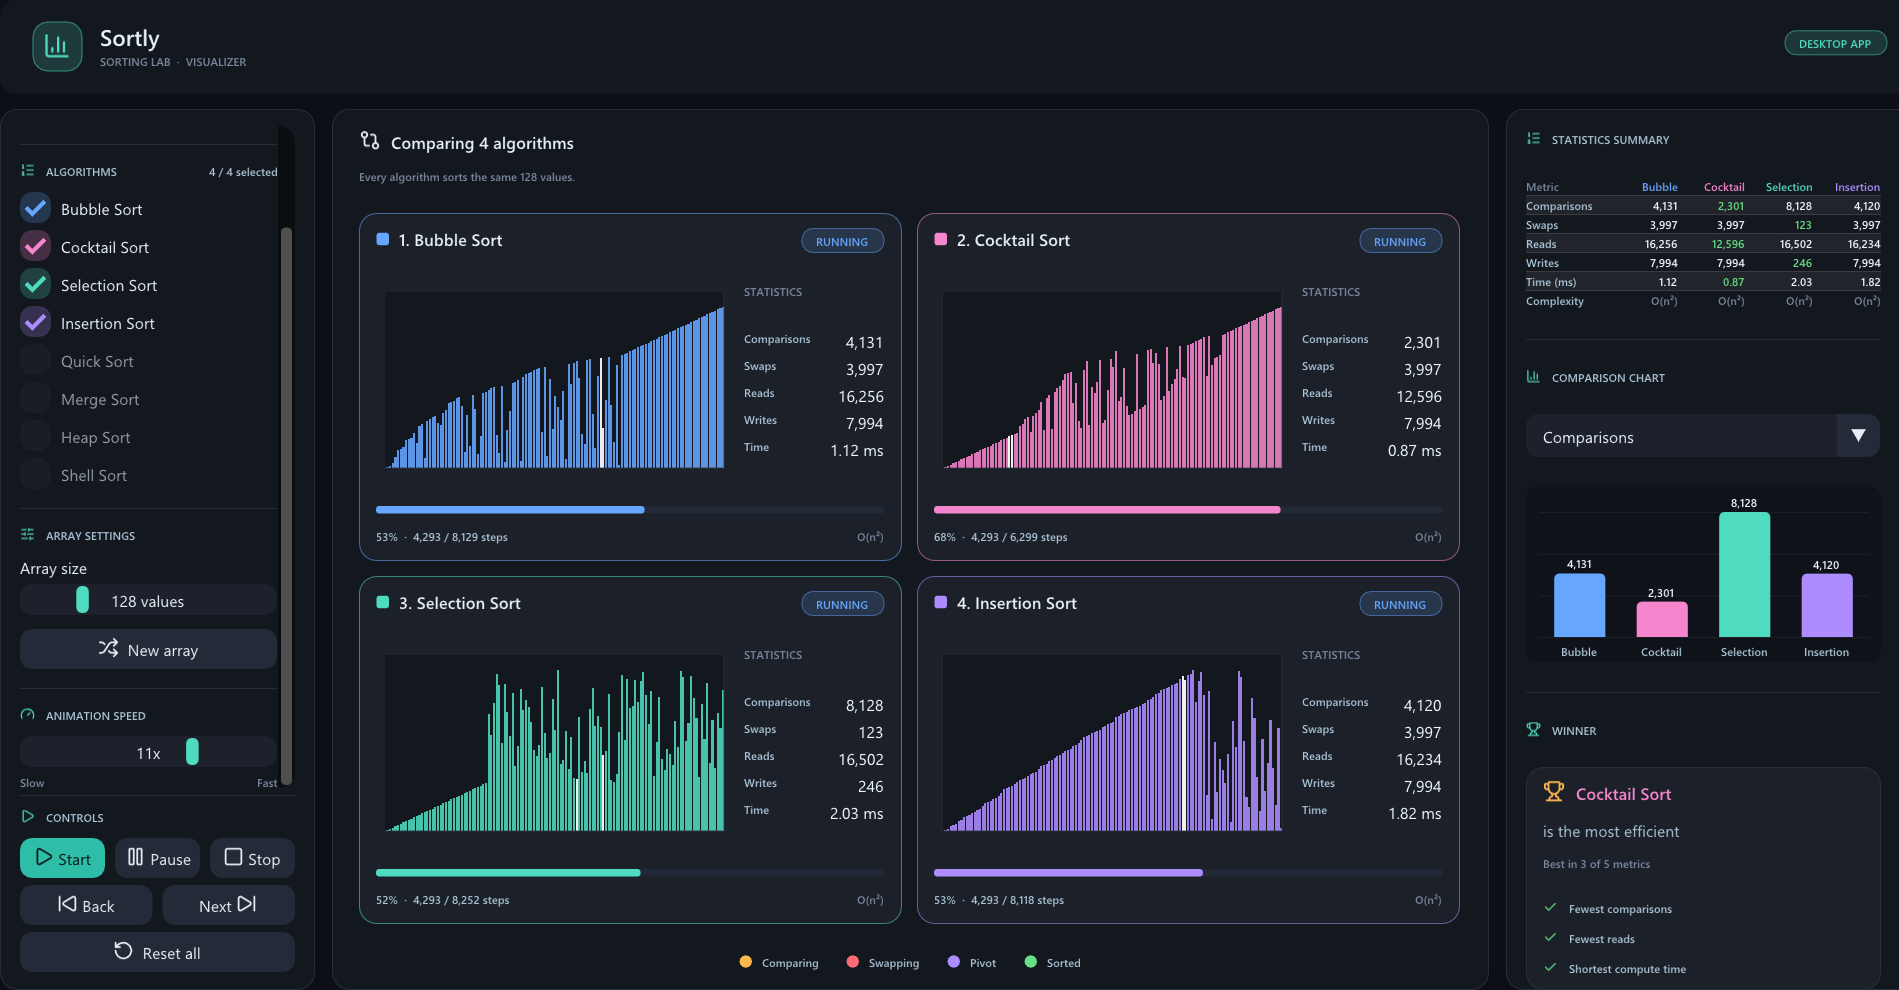
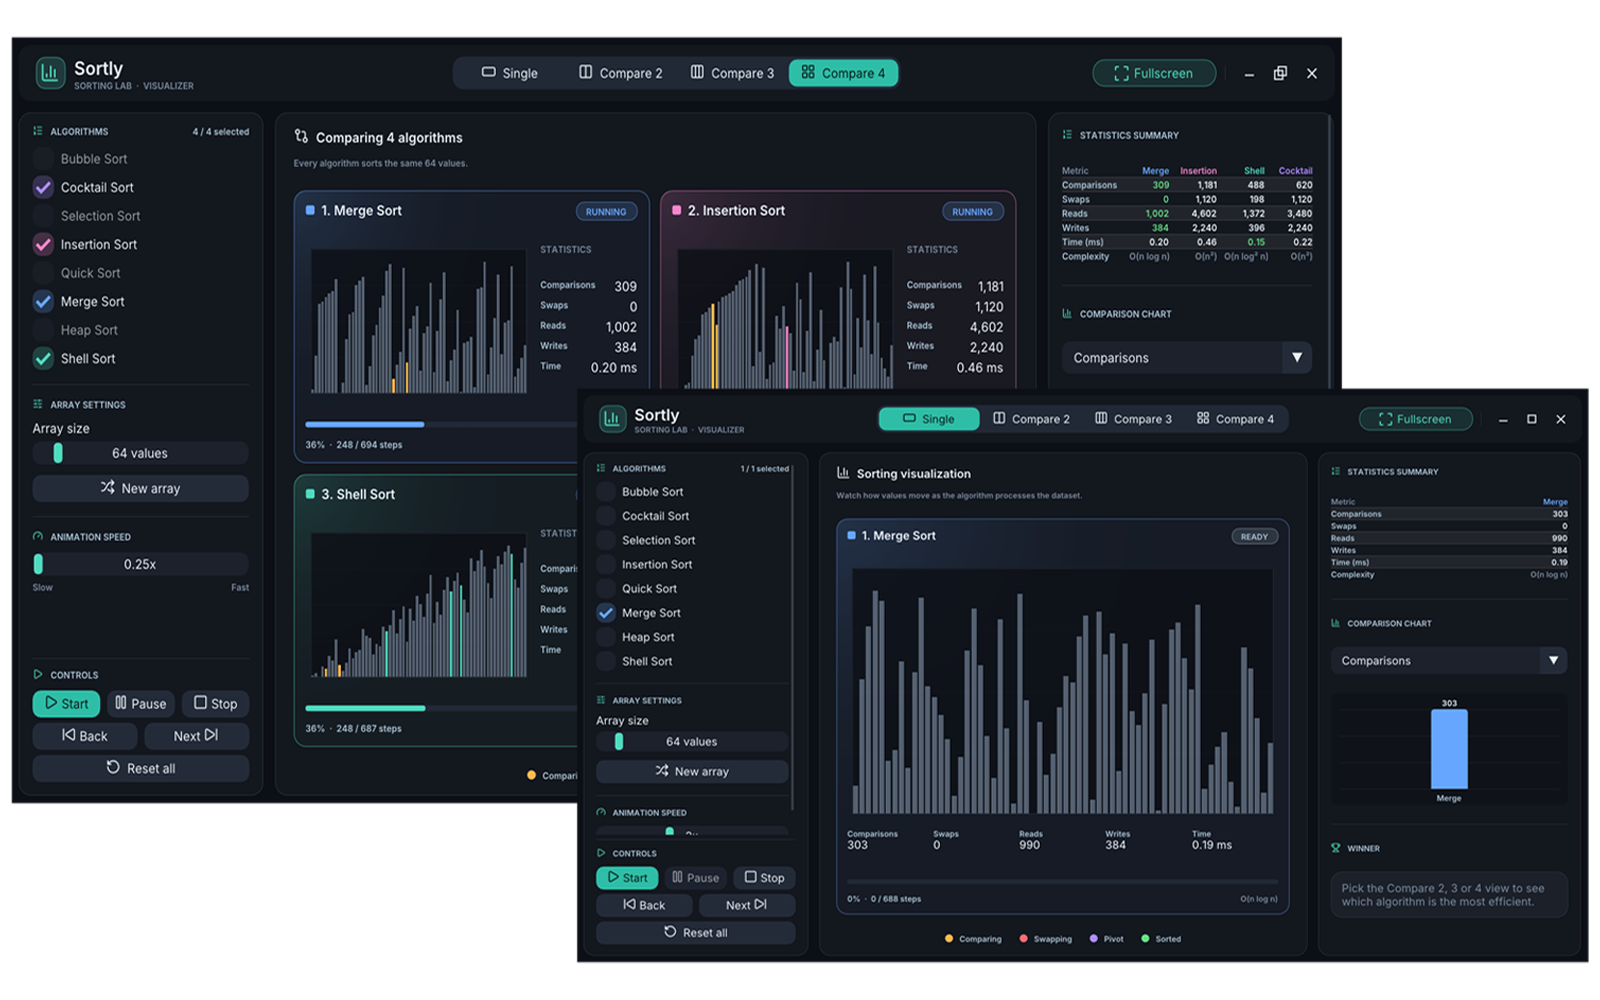
docs(readme): update image width and remove algorithms table
- Also update new preview

diff --git a/README.md b/README.md
@@ -37,21 +37,8 @@ Built with **GLFW**, **OpenGL**, **Dear ImGui** and **ImPlot**, it focuses on cl
 > This project is currently under active development. The application is reasonably stable at this stage, but future releases may introduce significant changes.
 
 <div align="center">
-  <img width="760" alt="Sortly comparing four sorting algorithms" src="docs/images/preview.png">
+  <img width="760px" alt="Sortly comparing four sorting algorithms" src="docs/images/preview.png">
 </div>
-
-## Algorithms
-
-| Algorithm      | Complexity  | Idea                                                          |
-| -------------- | ----------- | ------------------------------------------------------------- |
-| Bubble Sort    | O(n²)       | Swaps neighbors that are out of order, pass after pass.       |
-| Cocktail Sort  | O(n²)       | Bidirectional variation of Bubble Sort.                       |
-| Selection Sort | O(n²)       | Repeatedly moves the smallest remaining element into place.   |
-| Insertion Sort | O(n²)       | Grows a sorted prefix by sliding each element into its place. |
-| Quick Sort     | O(n log n)  | Partitions around a pivot (Lomuto) and sorts each side.       |
-| Merge Sort     | O(n log n)  | Bottom-up merging of sorted runs through an auxiliary buffer. |
-| Heap Sort      | O(n log n)  | Builds a max-heap, then moves its root to the end.            |
-| Shell Sort     | O(n log² n) | Insertion sort over shrinking gaps.                           |
 
 ## How it works
 
